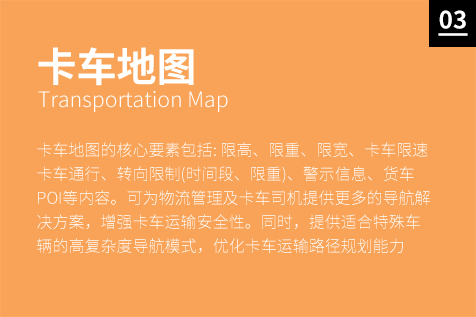
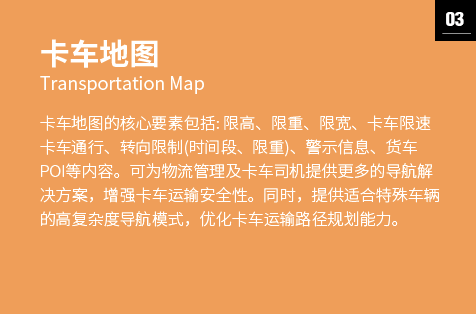
产品介绍修改

Changed region(s): [[0.0588, 0.1146, 0.9118, 0.5732], [0.0588, 0.6019, 0.9412, 0.8025], [0.8824, 0.0, 1.0, 0.172]]

diff --git a/style/description.css b/style/description.css
@@ -80,22 +80,22 @@
 
 /*修改样式开始*/
 .container{
-    min-width: 1002px;
-    width: 1002px;
+    min-width: 850px;
+    width: 50.1rem;
     margin: 0 auto;
     font-family: "Microsoft YaHei", 微软雅黑, Arial, sans-serif;
     overflow: hidden;
 }
 .container>p:nth-child(1){
-    margin-top: 105px;
+    margin-top: 5.25rem;
     text-align: left;
-    font-size: 32px;
+    font-size: 1.6rem;
     font-family: 黑体;
 }
 .container>p:nth-child(2){
     text-align: left;
-    font-size: 16px;
-    margin-bottom: 49px;
+    font-size: 0.8rem;
+    margin-bottom: 2.45rem;
     color: #666;
     font-family: arial;
 }
@@ -106,10 +106,14 @@
     overflow: hidden;
     position: relative;
 }
+.main_div>ul>li.li_div>p>img{
+    width: 100%;
+}
 .main_div>ul>li.li_div>img,.main_div>ul>li.li_div>p{
     float: left;
     width: 50%;
-    height: 316px;
+    height: 15.8rem;
+    min-height: 264px;
 }
 .main_div>ul>li.li_div:nth-child(1)>p{
     box-sizing: border-box;
@@ -146,7 +150,7 @@
     background-color: #8c9bad;
 }
 .main_div>ul>li.li_div:not(:last-child){
-    margin-bottom: 20px;
+    margin-bottom: 1rem;
 }
 
 

diff --git a/pages/productDescription.html b/pages/productDescription.html
@@ -19,7 +19,7 @@
         <ul>
             <li class="li_div" data-msg="01">
                 <img src="../img/productDescription/100315198.png" alt="">
-                <p><img src="../img/productDescription/jcdt.png" alt=""></p>
+                <p><img src="../img/productDescription/jcdt1.png" alt=""></p>
             </li>
             <li class="li_div" data-msg="02">
                 <p><img src="../img/productDescription/gjd.png" alt=""></p>
